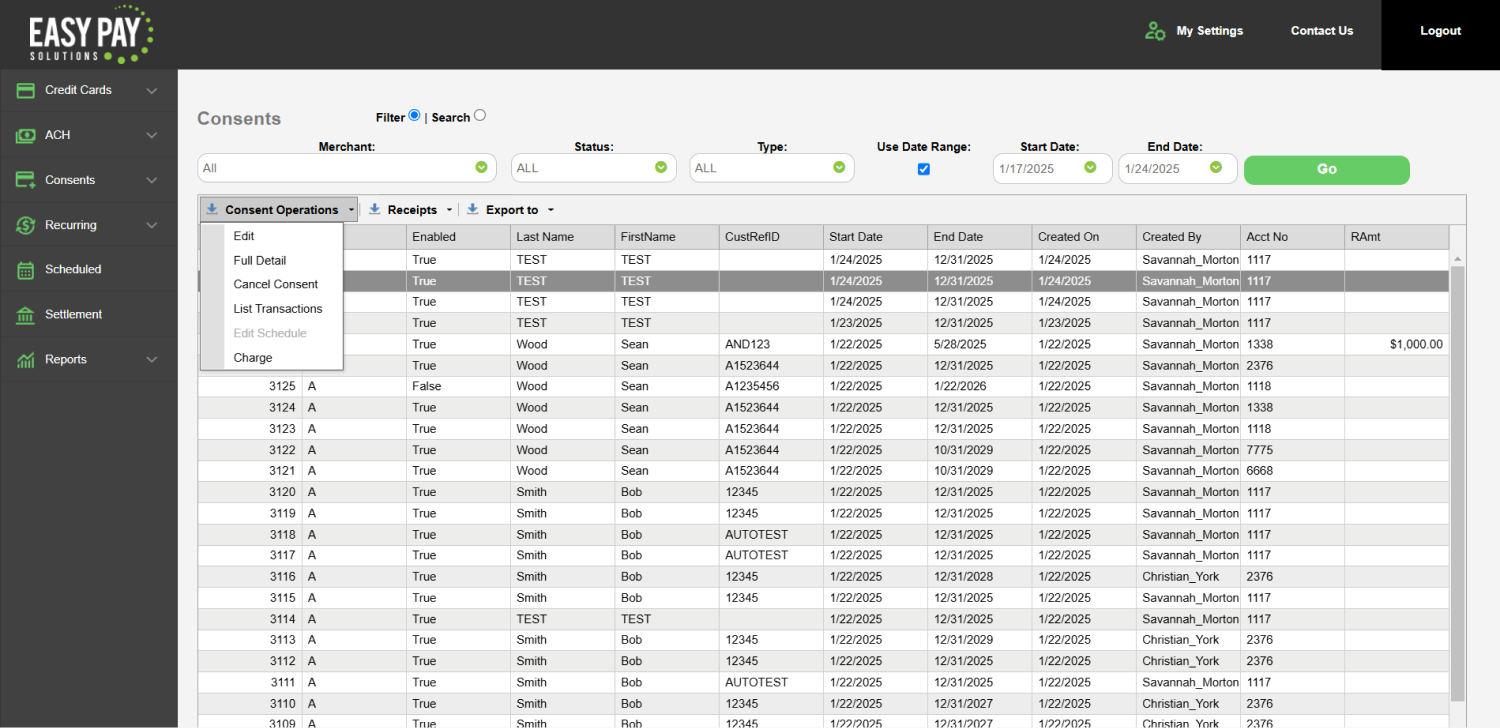
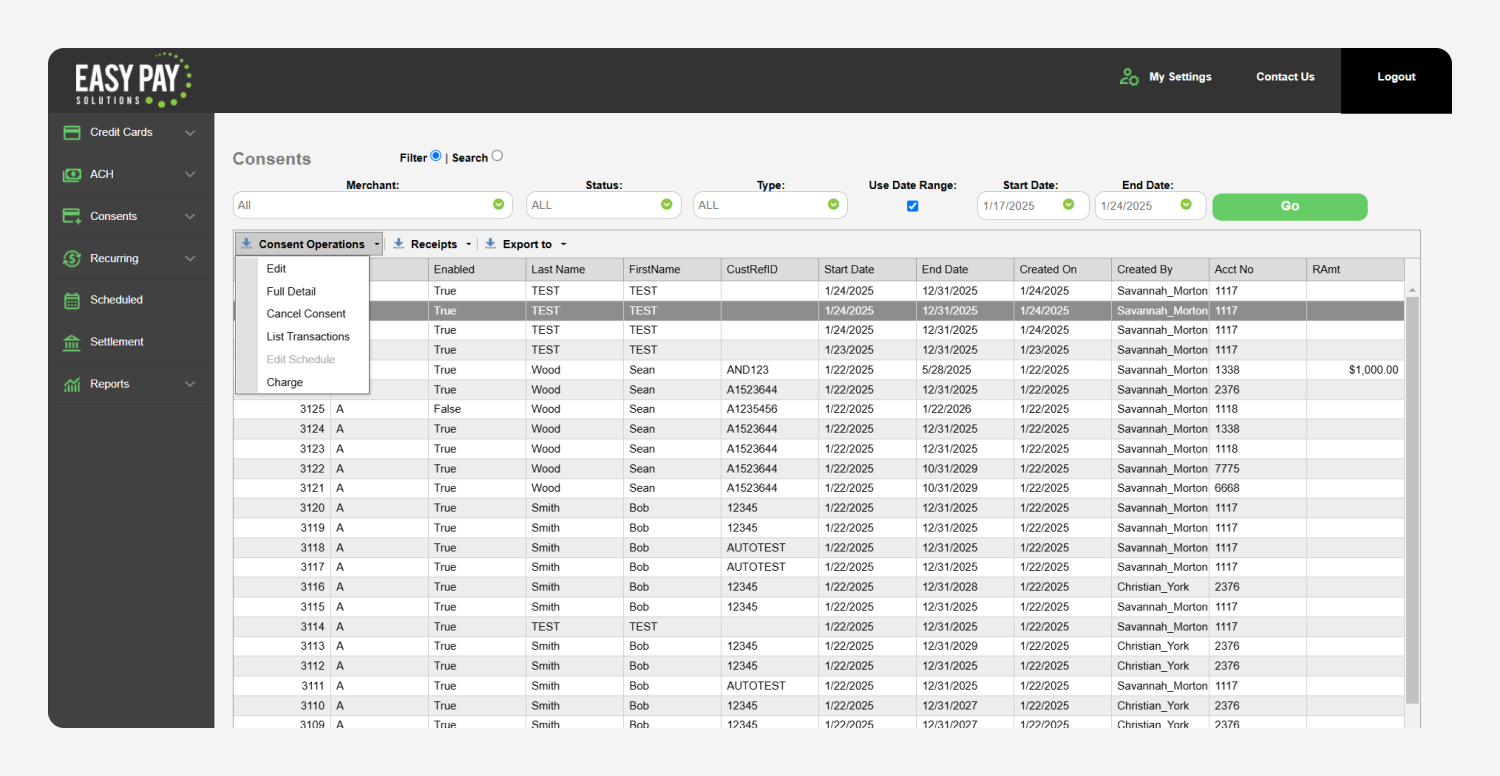
GITBOOK-564: No subject

diff --git a/documentation/getting-started/integration-options/virtual-terminal.md b/documentation/getting-started/integration-options/virtual-terminal.md
@@ -16,7 +16,7 @@ The Virtual Terminal is a web application that provides all types of credit card
 
 When you log in to the Virtual Terminal, you are brought to the home screen. The number of open transactions and scheduled payments due display at the top of the screen. Your default merchant and user roles are listed just below, along with the expiration date of your password.&#x20;
 
-<figure><img src="../../../.gitbook/assets/Virtual Terminal 2.png" alt=""><figcaption></figcaption></figure>
+<figure><img src="../../../.gitbook/assets/Virtual Terminal 2 (1).png" alt=""><figcaption></figcaption></figure>
 
 
 
@@ -150,7 +150,7 @@ Click the _Reports_ tab on the left side of the screen, then _Consents_.
 
 The consent list is where you will manage your consents after they have been created. The query filter can be used to search your consent list.
 
-<figure><img src="../../../.gitbook/assets/Virtual Terminal 6a Consent list.png" alt=""><figcaption></figcaption></figure>
+<figure><img src="../../../.gitbook/assets/Virtual Terminal 6a Consent list (1).png" alt=""><figcaption></figcaption></figure>
 
 #### Consent operations
 
@@ -214,7 +214,7 @@ Allows you to reprint the consent agreement. You can choose between the customer
 
 The scheduled payments view is where you will view and manage all scheduled payments.
 
-<figure><img src="../../../.gitbook/assets/Virtual Terminal 7a Scheduled payments.png" alt=""><figcaption></figcaption></figure>
+<figure><img src="../../../.gitbook/assets/Virtual Terminal 7a Scheduled payments (1).png" alt=""><figcaption></figcaption></figure>
 
 
 
@@ -250,7 +250,7 @@ Click the _Reports_ tab on the left side of the screen, then _Transactions_.
 
 The transaction list is where you will view and manage the transactions.
 
-<figure><img src="../../../.gitbook/assets/Virtual Terminal 8a Transaction list.png" alt=""><figcaption></figcaption></figure>
+<figure><img src="../../../.gitbook/assets/Virtual Terminal 8a Transaction list (1).png" alt=""><figcaption></figcaption></figure>
 
 #### Transaction operations
 
@@ -302,7 +302,7 @@ For filtering by transaction status and transaction type, see the table below.
 
 Search your database, create reports based on results, void, credit, and reprint receipts.
 
-<figure><img src="../../../.gitbook/assets/Virtual Terminal 9 Transaction search.png" alt=""><figcaption></figcaption></figure>
+<figure><img src="../../../.gitbook/assets/Virtual Terminal 9 Transaction search (2).png" alt=""><figcaption></figcaption></figure>
 
 #### Search for
 
@@ -330,7 +330,7 @@ Click the _Settlement_ option on the left side of the screen.
 
 View and manage the settlements.
 
-<figure><img src="../../../.gitbook/assets/Virtual Terminal 10 Transaction search.png" alt=""><figcaption></figcaption></figure>
+<figure><img src="../../../.gitbook/assets/Virtual Terminal 10 Transaction search (2).png" alt=""><figcaption></figcaption></figure>
 
 #### Manually settle transactions.&#x20;
 
@@ -348,7 +348,7 @@ Select individual transactions, and click _Settle Selected_. Click _Settle All_ 
 
 Displays a list of your settlements and allows for reprinting of batch reports.
 
-<figure><img src="../../../.gitbook/assets/Virtual Terminal 11 Batch history.png" alt=""><figcaption></figcaption></figure>
+<figure><img src="../../../.gitbook/assets/Virtual Terminal 11 Batch history (1).png" alt=""><figcaption></figcaption></figure>
 
 
 
